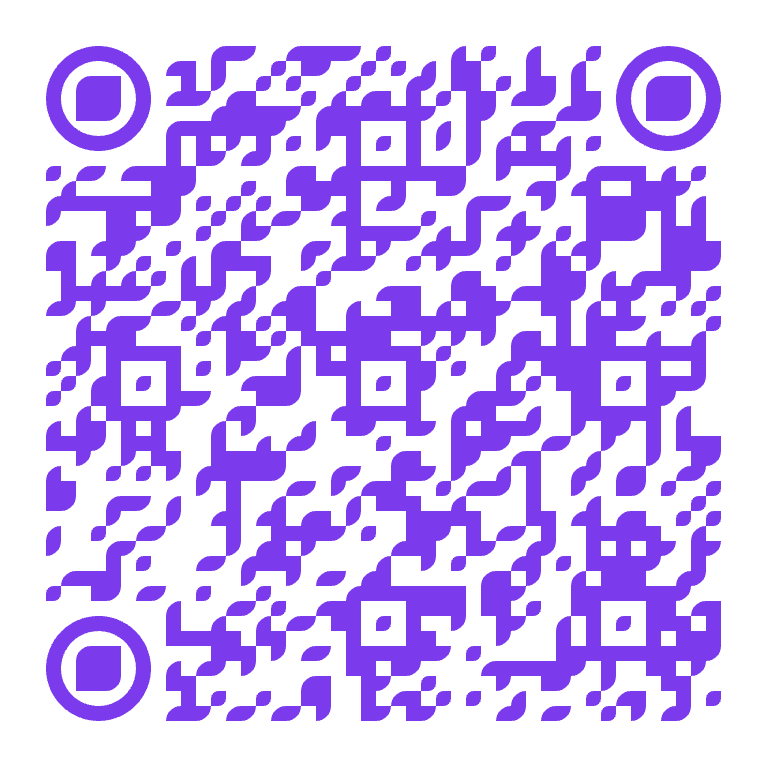
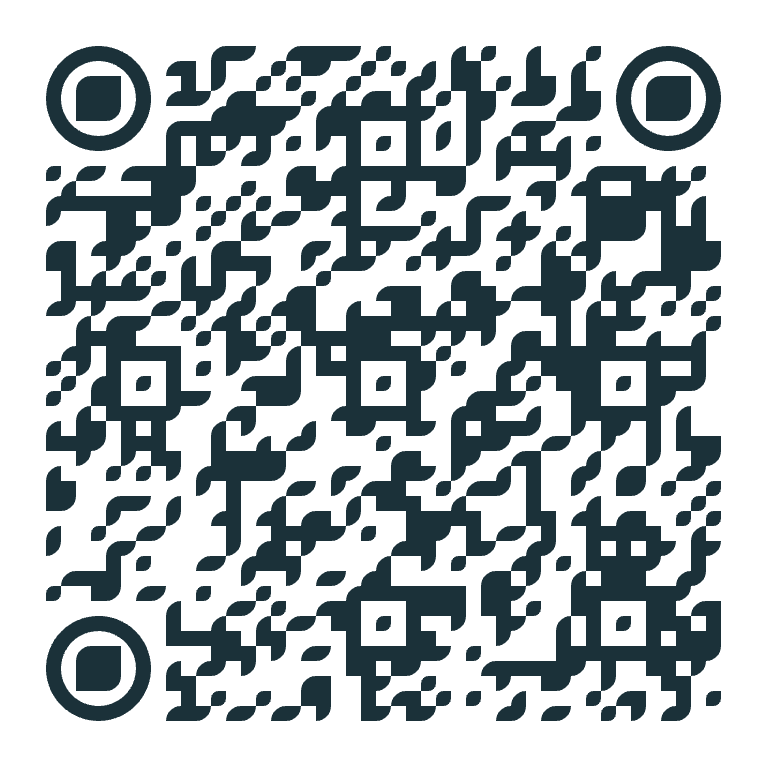
Open Databricks-app QR in-place; recolor app QRs to navy
- Recolor the iOS/Android app QR codes from violet to navy #1B3139 to
  match the site palette (as done for the contact QRs).
- Add a self-contained assets/appmodal.js that injects the app QR modal
  and intercepts any #appCard link, opening it in-place on the current
  page instead of jumping back to the homepage. Included on all
  subpages; the script resolves asset paths from its own URL.
- Bump QR image cache versions to v=2.

diff --git a/assets/appmodal.js b/assets/appmodal.js
@@ -1,0 +1,56 @@
+/* Shared "Download the Databricks app" QR modal.
+   Include on any page: <script src="../assets/appmodal.js?v=1"></script>
+   Any link with href ending in #appCard opens the modal in-place — no navigation. */
+(function(){
+  // Work out where assets/ lives relative to this page, from this script's own URL.
+  var me = document.currentScript && document.currentScript.src;
+  var base = me ? me.replace(/appmodal\.js.*$/,'') : 'assets/';   // e.g. "../assets/"
+
+  // Styles (scoped to the app modal; matches the homepage modal).
+  var css = document.createElement('style');
+  css.textContent = [
+    '.appmodal{position:fixed;inset:0;z-index:60;display:flex;align-items:center;justify-content:center;padding:20px}',
+    '.appmodal[hidden]{display:none}',
+    '.appmodal .mb-backdrop{position:absolute;inset:0;background:rgba(13,14,39,.55)}',
+    '.appmodal .mb-box{position:relative;background:#fff;border-radius:14px;padding:26px;max-width:540px;width:100%;box-shadow:0 20px 60px rgba(0,0,0,.32)}',
+    '.appmodal .mb-box h3{margin:0 0 4px;font-size:19px;color:var(--navy)}',
+    '.appmodal .mb-box>p{margin:0 0 18px;font-size:13px;color:var(--grey)}',
+    '.appmodal .mb-x{position:absolute;top:10px;right:14px;border:0;background:transparent;font-size:24px;line-height:1;color:var(--grey);cursor:pointer;padding:4px}',
+    '.appmodal .mb-x:hover{color:var(--ink)}',
+    '.appmodal .qr-row{display:grid;grid-template-columns:repeat(2,1fr);gap:16px}',
+    '@media(max-width:520px){.appmodal .qr-row{grid-template-columns:1fr}}',
+    '.appmodal .qr-card{background:#fff;border:1px solid var(--border);border-radius:12px;border-top:5px solid var(--navy);padding:18px;text-align:center}',
+    '.appmodal .qr-card:nth-child(2){border-top-color:var(--teal)}',
+    '.appmodal .qr-card img{width:150px;height:150px;display:block;margin:0 auto 12px;border:1px solid var(--border);border-radius:8px;background:#fff;object-fit:contain}',
+    '.appmodal .qr-lab{font-size:14px;font-weight:600;color:var(--navy)}',
+    '.appmodal .qr-lab span{display:block;font-weight:400;color:var(--grey);font-size:12px;margin-top:3px}'
+  ].join('');
+  document.head.appendChild(css);
+
+  // Markup.
+  var m = document.createElement('div');
+  m.className = 'appmodal'; m.id = 'appModal'; m.hidden = true;
+  m.innerHTML =
+    '<div class="mb-backdrop" data-close></div>' +
+    '<div class="mb-box" role="dialog" aria-modal="true" aria-label="Download the Databricks app">' +
+      '<button class="mb-x" data-close aria-label="Close">×</button>' +
+      '<h3>Download the Databricks app</h3>' +
+      '<p>Scan a code with your phone camera to open the store.</p>' +
+      '<div class="qr-row">' +
+        '<div class="qr-card"><img src="'+base+'qr_ios.png?v=2" alt="App Store QR code for the Databricks app"><div class="qr-lab">iOS · App Store <span>Point your iPhone camera at the code</span></div></div>' +
+        '<div class="qr-card"><img src="'+base+'qr_android.png?v=2" alt="Google Play QR code for the Databricks app"><div class="qr-lab">Android · Google Play <span>Point your Android camera at the code</span></div></div>' +
+      '</div>' +
+    '</div>';
+  document.body.appendChild(m);
+
+  function open(e){ if(e) e.preventDefault(); m.hidden=false; }
+  function close(){ m.hidden=true; }
+  m.addEventListener('click', function(e){ if(e.target.hasAttribute('data-close')) close(); });
+  document.addEventListener('keydown', function(e){ if(e.key==='Escape' && !m.hidden) close(); });
+
+  // Intercept every "Databricks app" link (href ends with #appCard) — open in place.
+  document.addEventListener('click', function(e){
+    var a = e.target.closest && e.target.closest('a[href$="#appCard"]');
+    if(a){ open(e); }
+  });
+})();

diff --git a/index.html b/index.html
@@ -116,8 +116,8 @@ ul.mini{margin:8px 0 0;padding-left:18px;font-size:13px;color:var(--grey)}
 <h3>Download the Databricks app</h3>
 <p>Scan a code with your phone camera to open the store.</p>
 <div class="qr-row">
-<div class="qr-card"><img src="assets/qr_ios.png" alt="App Store QR code for the Databricks app"><div class="qr-lab">iOS · App Store <span>Point your iPhone camera at the code</span></div></div>
-<div class="qr-card"><img src="assets/qr_android.png" alt="Google Play QR code for the Databricks app"><div class="qr-lab">Android · Google Play <span>Point your Android camera at the code</span></div></div>
+<div class="qr-card"><img src="assets/qr_ios.png?v=2" alt="App Store QR code for the Databricks app"><div class="qr-lab">iOS · App Store <span>Point your iPhone camera at the code</span></div></div>
+<div class="qr-card"><img src="assets/qr_android.png?v=2" alt="Google Play QR code for the Databricks app"><div class="qr-lab">Android · Google Play <span>Point your Android camera at the code</span></div></div>
 </div>
 </div>
 </div>

diff --git a/pages/create_domain.html b/pages/create_domain.html
@@ -153,6 +153,7 @@
 </div>
 <footer>Energy Trading workshop pack · create a domain &amp; pages <a class="contact-link" href="../index.html#appCard">📱 Databricks app</a> <a class="contact-link" href="contact.html">✉ Contact us</a></footer>
 <script src="../assets/logos.js?v=3"></script>
+<script src="../assets/appmodal.js?v=1"></script>
 <script src="../assets/download.js"></script>
 <script>
 // Play a walkthrough clip only while its step is on screen; pause + rewind when it scrolls away.

diff --git a/pages/joinpaths.html b/pages/joinpaths.html
@@ -32,6 +32,7 @@
 </div>
 <footer>Energy Trading workshop pack · common join paths <a class="contact-link" href="../index.html#appCard">📱 Databricks app</a> <a class="contact-link" href="contact.html">✉ Contact us</a></footer>
 <script src="../assets/logos.js?v=3"></script>
+<script src="../assets/appmodal.js?v=1"></script>
 <script>
 const NS='http://www.w3.org/2000/svg';
 function el(n,a){const e=document.createElementNS(NS,n);for(const k in a)e.setAttribute(k,a[k]);return e;}

diff --git a/pages/market.html b/pages/market.html
@@ -22,6 +22,7 @@
 </div>
 <footer>Energy Trading workshop pack · market structure <a class="contact-link" href="../index.html#appCard">📱 Databricks app</a> <a class="contact-link" href="contact.html">✉ Contact us</a></footer>
 <script src="../assets/logos.js?v=3"></script>
+<script src="../assets/appmodal.js?v=1"></script>
 <script>
 const NS='http://www.w3.org/2000/svg';
 function el(n,a){const e=document.createElementNS(NS,n);for(const k in a)e.setAttribute(k,a[k]);return e;}

diff --git a/pages/setup_notebook.html b/pages/setup_notebook.html
@@ -111,6 +111,7 @@
 </div>
 <footer>Energy Trading workshop pack · free Databricks setup guide <a class="contact-link" href="../index.html#appCard">📱 Databricks app</a> <a class="contact-link" href="contact.html">✉ Contact us</a></footer>
 <script src="../assets/logos.js?v=3"></script>
+<script src="../assets/appmodal.js?v=1"></script>
 <script src="../assets/download.js"></script>
 <script>
 // Until real media is dropped in assets/gifs/, show a labelled placeholder box.

diff --git a/pages/create_dashboard.html b/pages/create_dashboard.html
@@ -129,6 +129,7 @@
 </div>
 <footer>Energy Trading workshop pack · create an AI/BI dashboard <a class="contact-link" href="../index.html#appCard">📱 Databricks app</a> <a class="contact-link" href="contact.html">✉ Contact us</a></footer>
 <script src="../assets/logos.js?v=3"></script>
+<script src="../assets/appmodal.js?v=1"></script>
 <script src="../assets/download.js"></script>
 <script>
 // Until real media is dropped in assets/gifs/, show a labelled placeholder box.

diff --git a/pages/sketch_to_dashboard.html b/pages/sketch_to_dashboard.html
@@ -107,6 +107,7 @@
 </div>
 <footer>Energy Trading workshop pack · sketch to dashboard <a class="contact-link" href="../index.html#appCard">📱 Databricks app</a> <a class="contact-link" href="contact.html">✉ Contact us</a></footer>
 <script src="../assets/logos.js?v=3"></script>
+<script src="../assets/appmodal.js?v=1"></script>
 <script src="../assets/download.js"></script>
 <script>
 // Until real media is dropped in assets/gifs/, show a labelled placeholder box.

diff --git a/pages/create_genie.html b/pages/create_genie.html
@@ -136,6 +136,7 @@ Vocabulary
 </div>
 <footer>Energy Trading workshop pack · create a Genie agent <a class="contact-link" href="../index.html#appCard">📱 Databricks app</a> <a class="contact-link" href="contact.html">✉ Contact us</a></footer>
 <script src="../assets/logos.js?v=3"></script>
+<script src="../assets/appmodal.js?v=1"></script>
 <script src="../assets/download.js"></script>
 <script>
 document.querySelectorAll('.shot img').forEach(function(img){

diff --git a/pages/setup_workspace.html b/pages/setup_workspace.html
@@ -59,5 +59,6 @@
 </div>
 <footer>Energy Trading workshop pack · free Databricks setup guide <a class="contact-link" href="../index.html#appCard">📱 Databricks app</a> <a class="contact-link" href="contact.html">✉ Contact us</a></footer>
 <script src="../assets/logos.js?v=3"></script>
+<script src="../assets/appmodal.js?v=1"></script>
 <script src="../assets/download.js"></script>
 </body></html>

diff --git a/pages/contact.html b/pages/contact.html
@@ -44,5 +44,6 @@
 </div>
 <footer>Energy Trading workshop pack · get in touch <a class="contact-link" href="../index.html#appCard">📱 Databricks app</a></footer>
 <script src="../assets/logos.js?v=3"></script>
+<script src="../assets/appmodal.js?v=1"></script>
 <script src="../assets/download.js"></script>
 </body></html>

diff --git a/pages/er.html b/pages/er.html
@@ -294,4 +294,5 @@ recModal.addEventListener('click',e=>{if(e.target.hasAttribute('data-rclose'))re
 document.addEventListener('keydown',e=>{if(e.key==='Escape'&&!recModal.hidden)recClose();});
 </script>
 <script src="../assets/logos.js?v=3"></script>
+<script src="../assets/appmodal.js?v=1"></script>
 </body></html>
